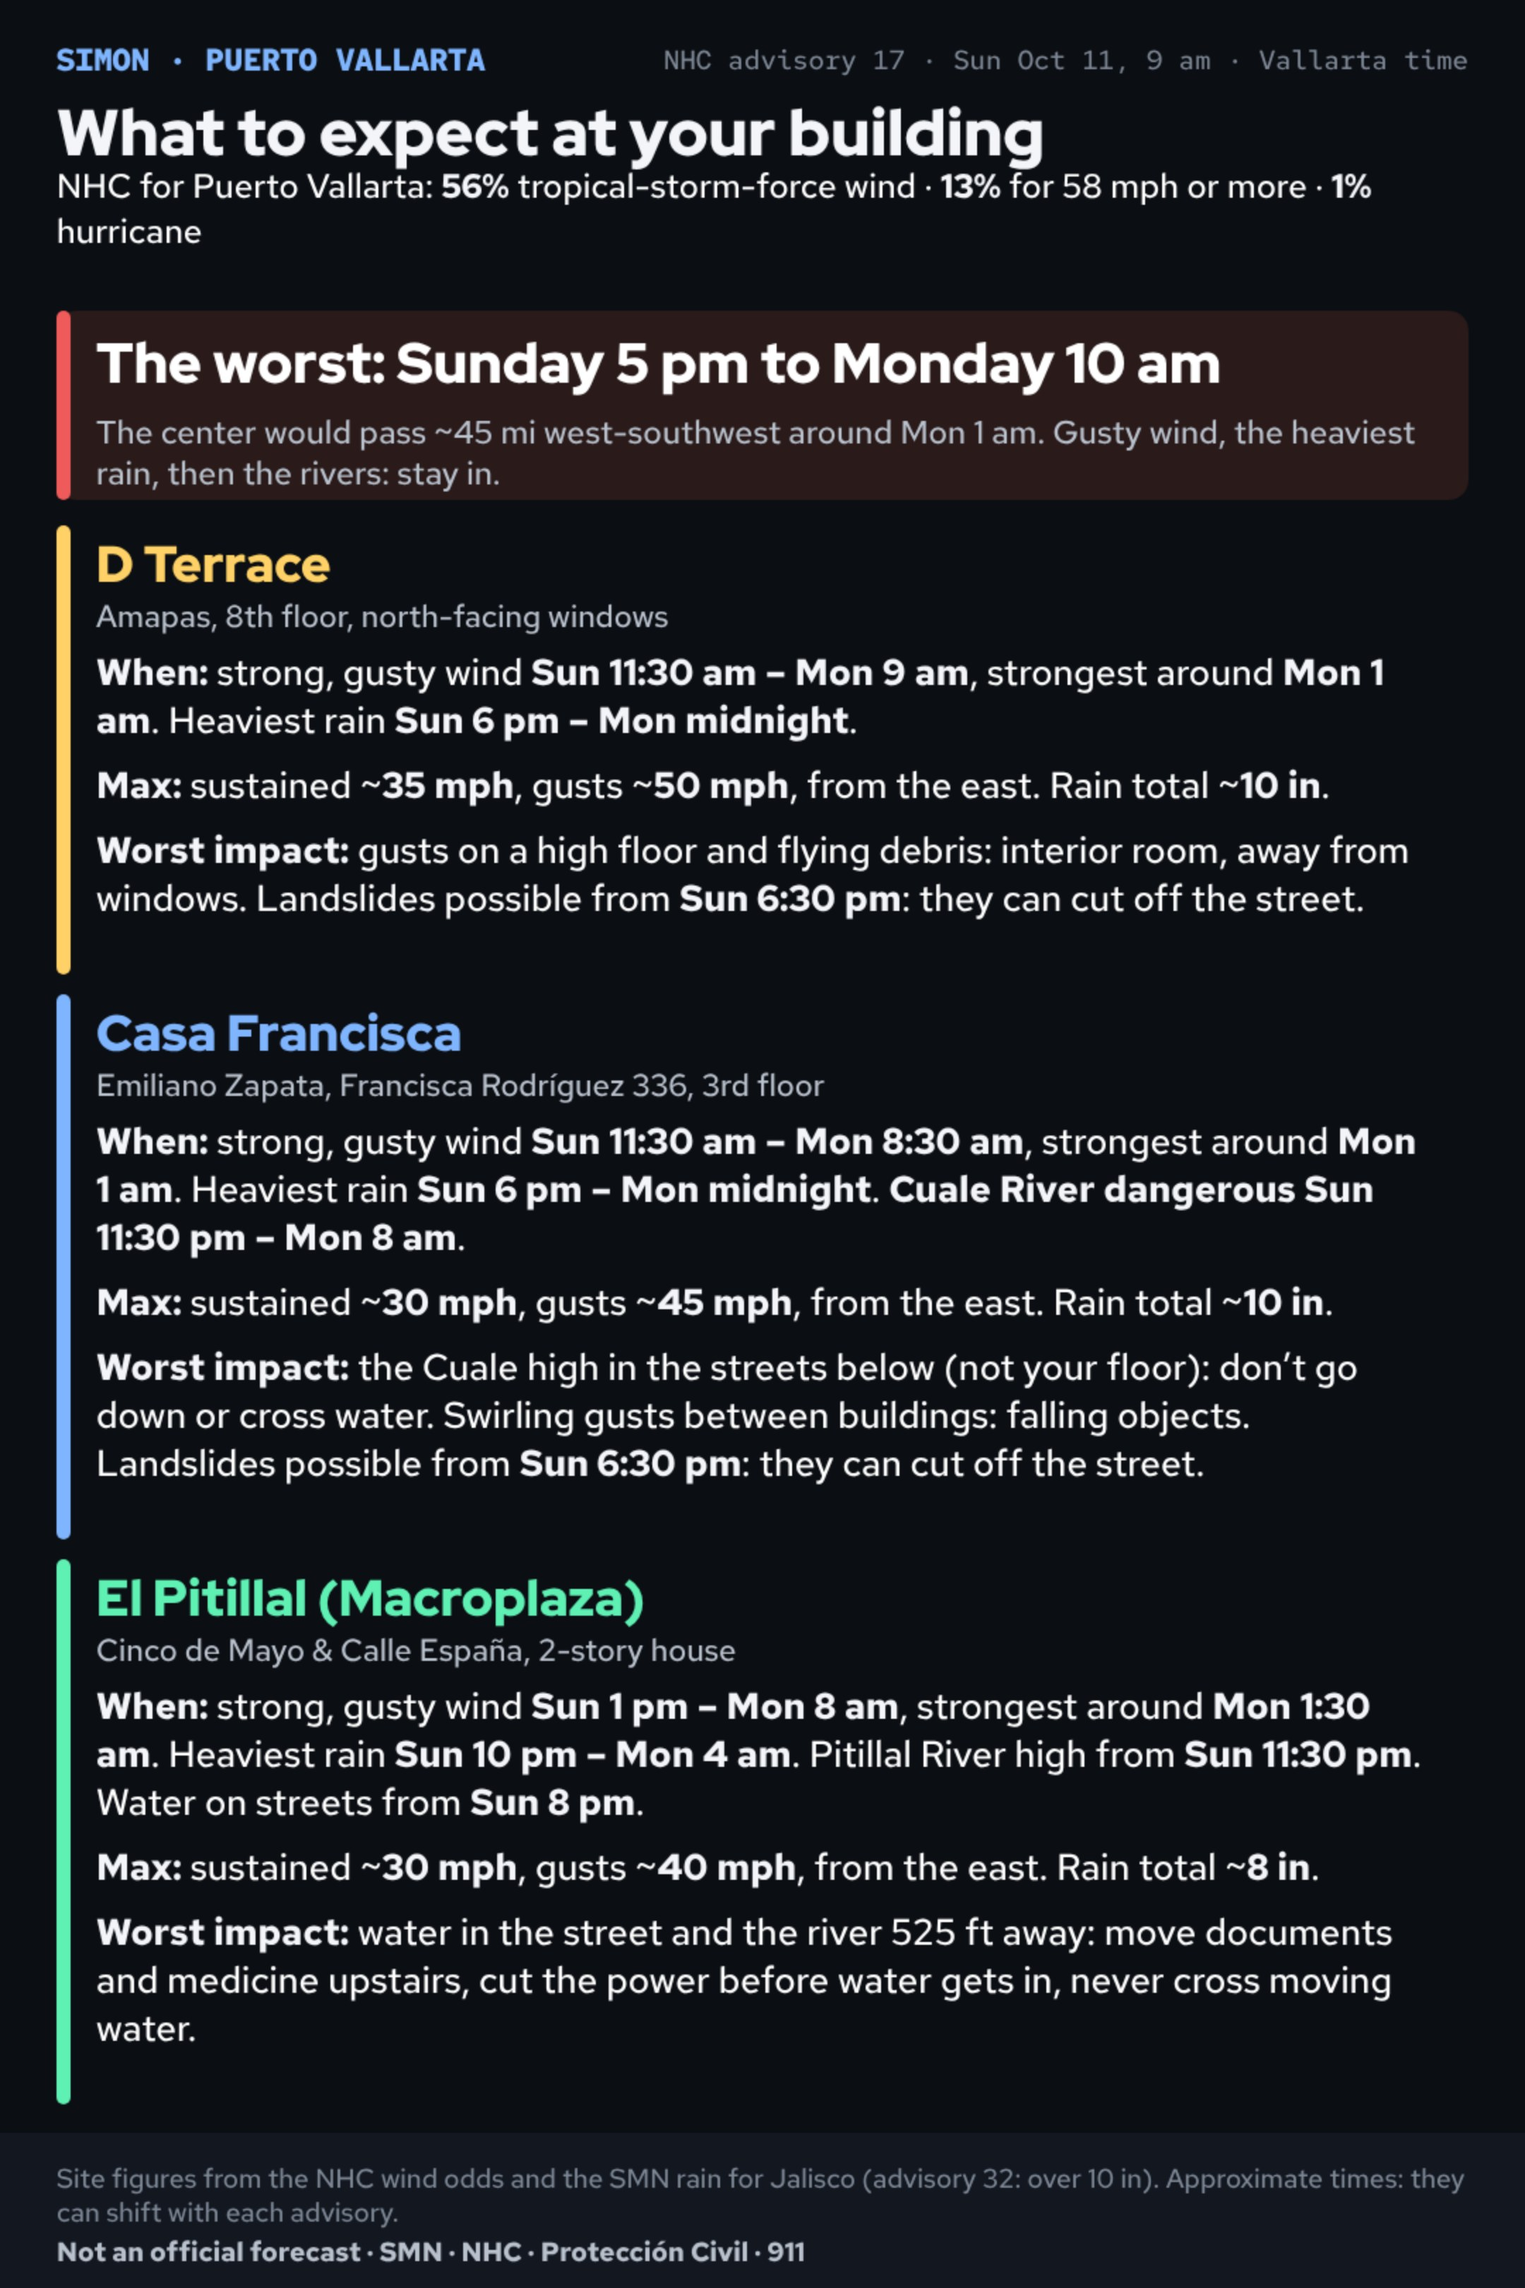
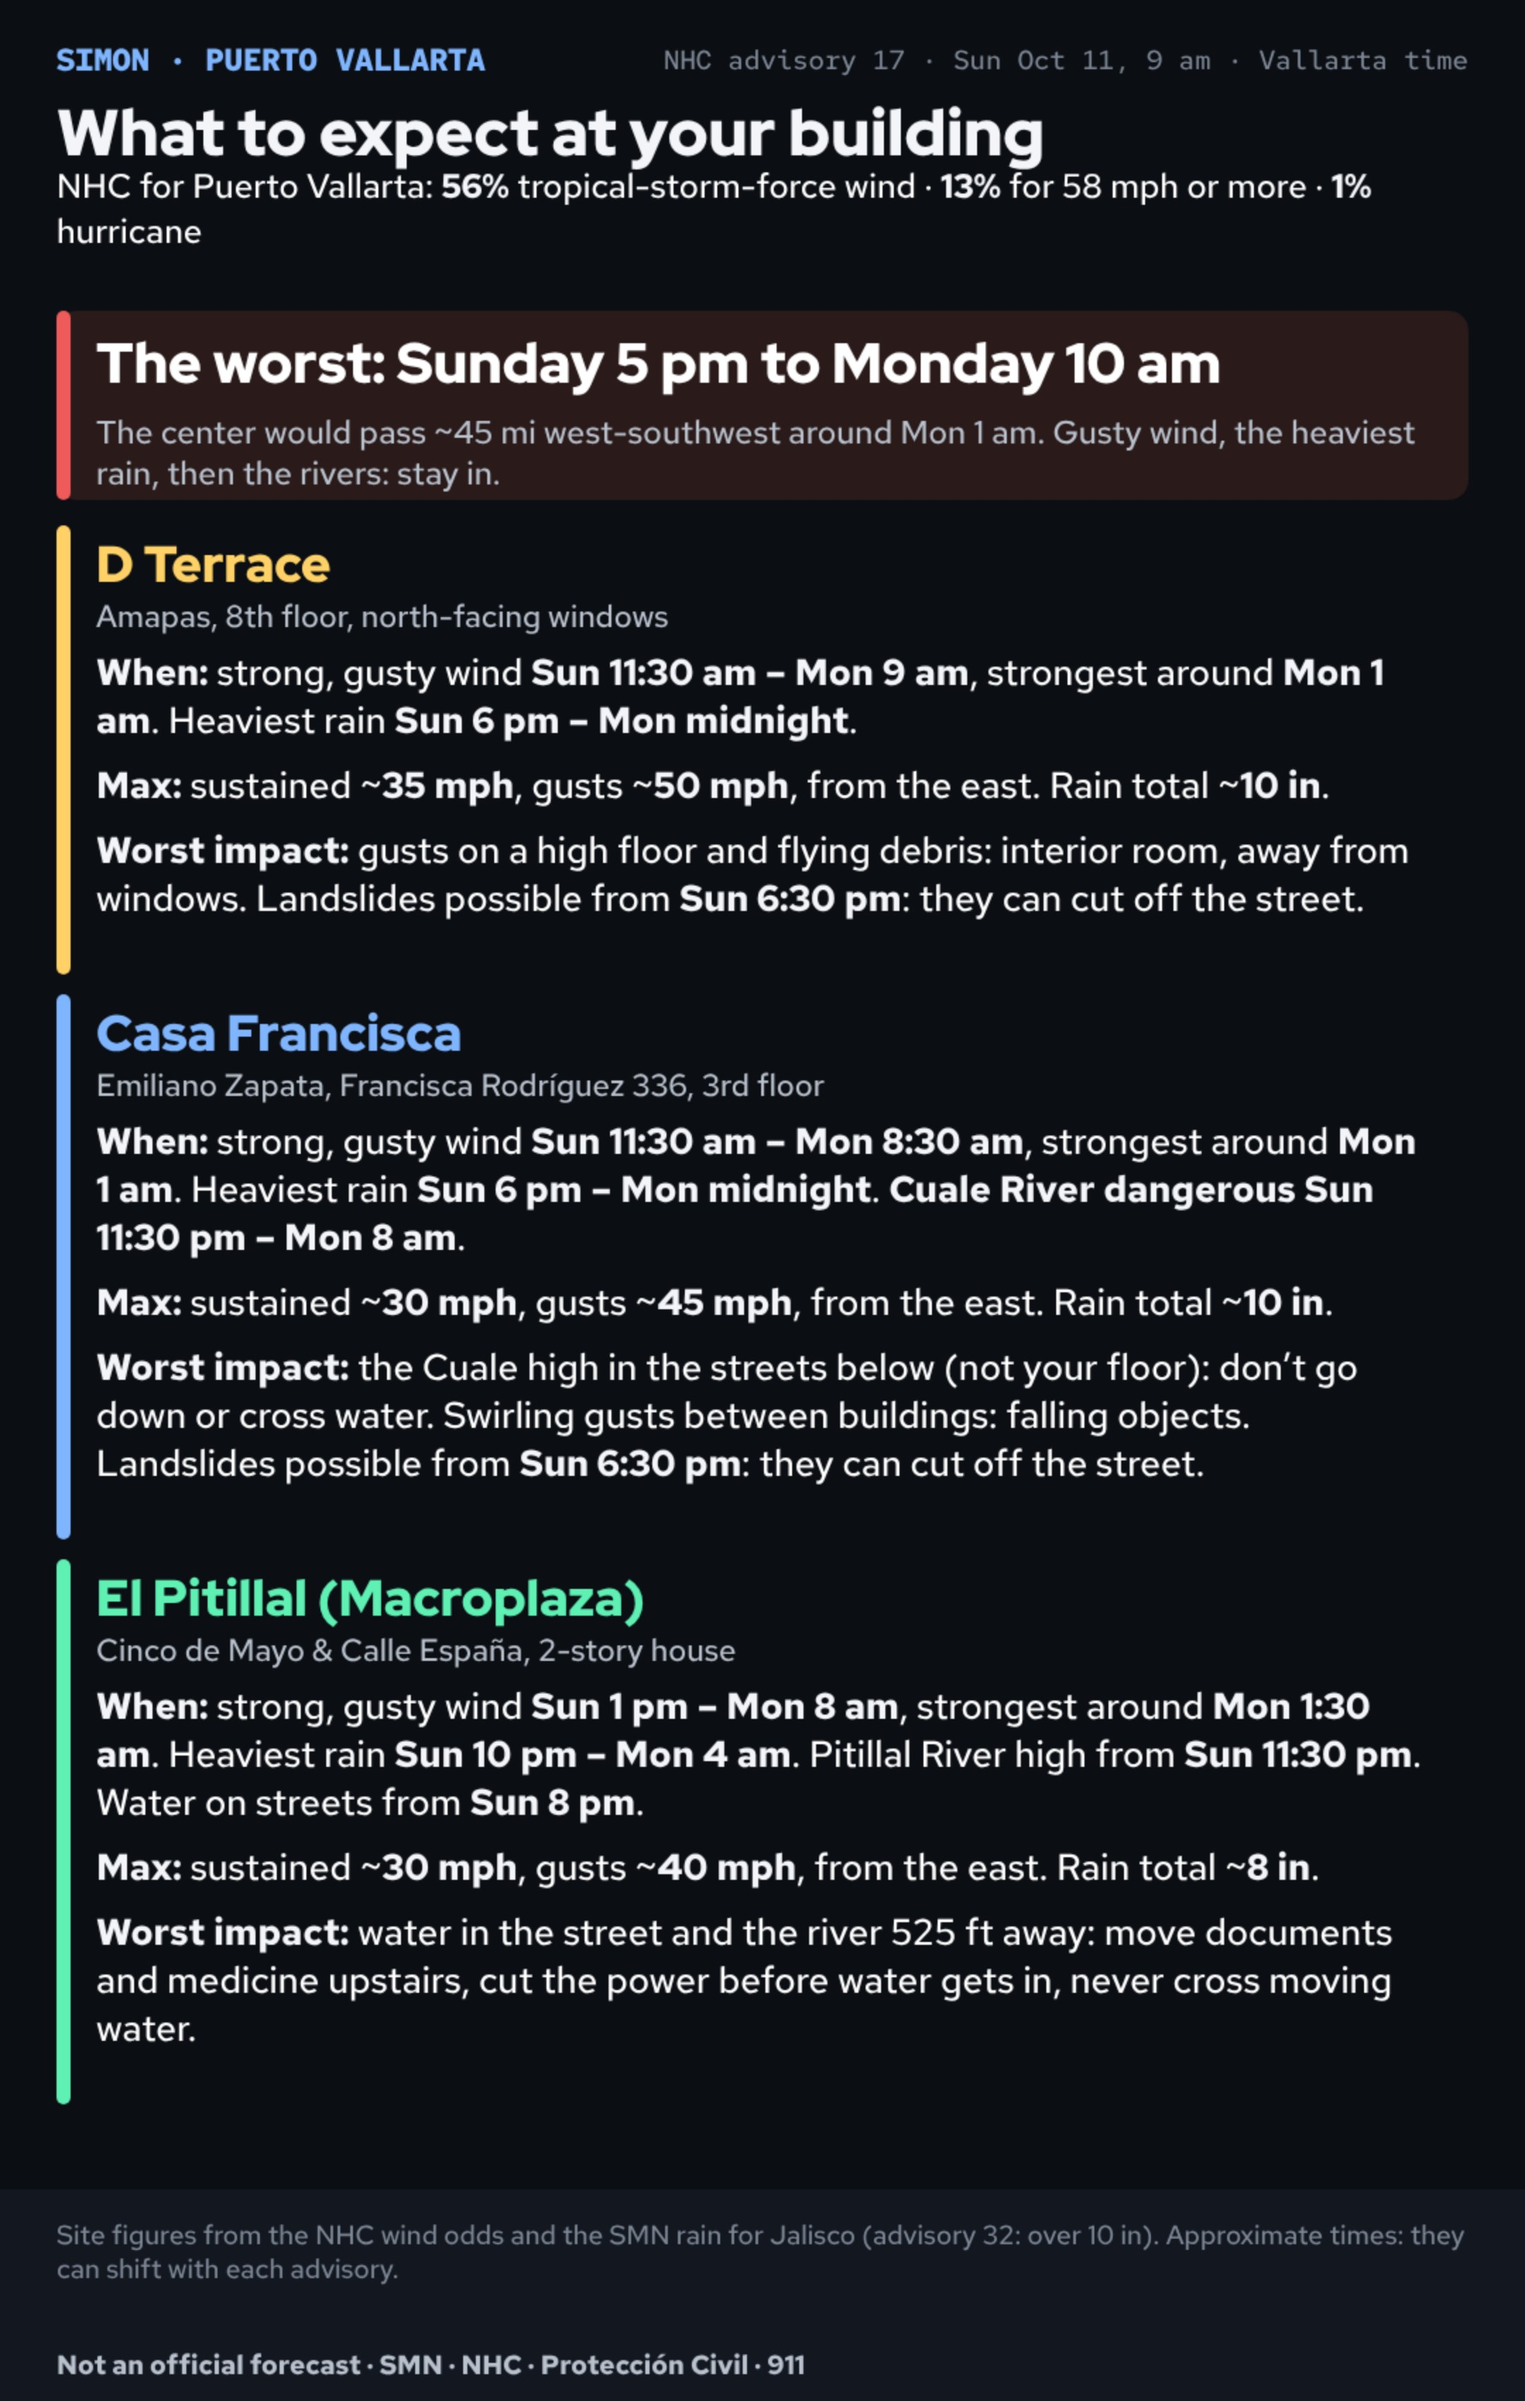
Simon summary graphics: taller canvas so the footer never overlaps
Claude-Session: https://claude.ai/code/session_01FJNjJWTDcgPgB2hpttgoDr

diff --git a/hurricane-simon/bay/src/graphics.html b/hurricane-simon/bay/src/graphics.html
@@ -254,7 +254,7 @@ var SUM_BI = false;
 function bi(x, y, w, es, en, size){ var sz = size || 21; if (!SUM_BI) return rich(LANG === 'es' ? es : en, x, y, w, sz + 5, sz + 13, '#ffffff') + 12; var h = rich(es, x, y, w, sz, sz + 7, '#ffffff'); h += rich(en, x, y + h, w, sz - 2, sz + 5, C.ink2); return h + 6; }
 function bt(es, en){ return SUM_BI ? es + ' · ' + en : L(es, en); }
 var SUM_NAMES = {amapas: ['D Terrace', ['Amapas, 8.º piso, ventanas al norte', 'Amapas, 8th floor, north-facing windows']], ezapata: ['Casa Francisca', ['Emiliano Zapata, Francisca Rodríguez 336, 3.er piso', 'Emiliano Zapata, Francisca Rodríguez 336, 3rd floor']], pitillal: ['El Pitillal (Macroplaza)', ['Cinco de Mayo y Calle España, casa de 2 pisos', 'Cinco de Mayo & Calle España, 2-story house']]};
-function gSummary(){ var HS = SUM_BI ? 1800 : 1620; cv.height = HS; cx.fillStyle = C.bg; cx.fillRect(0, 0, W, HS);
+function gSummary(){ var HS = SUM_BI ? 1800 : 1700; cv.height = HS; cx.fillStyle = C.bg; cx.fillRect(0, 0, W, HS);
   text('SIMON · PUERTO VALLARTA', 40, 44, 22, C.accent, 700, 'left', FM); text(SUM_BI ? inLang('es', advLine) + ' · ' + inLang('en', advLine).replace(/^NHC advisory \d+ · /, '') : advLine() + ' · ' + L('hora de Vallarta', 'Vallarta time'), W - 40, 44, 19, C.mute, 500, 'right', FM);
   var ttl = bt('Qué esperar en tu edificio', 'What to expect at your building'); text(ttl, 40, 98, fitText(ttl, W - 80, 46), C.ink, 800, 'left', FD);
   var am = SITES[0], ez = SITES[1], pi = SITES[2];
@@ -295,7 +295,7 @@ function gSummary(){ var HS = SUM_BI ? 1800 : 1620; cv.height = HS; cx.fillStyle
     cx.save(); cx.globalCompositeOperation = 'destination-over'; cx.fillStyle = '#151b25'; roundRect(40, top, W - 80, hgt, 14); cx.fill(); cx.restore();
     cx.fillStyle = SITE_COL[s.id]; roundRect(40, top, 10, hgt, 5); cx.fill();
     y = top + hgt + 14; });
-  var fy = Math.max(y + 6, HS - 150);
+  var fy = Math.max(y + 6, HS - 150); if (fy > HS - 124) fy = HS - 124;
   cx.fillStyle = '#121720'; cx.fillRect(0, fy, W, HS - fy);
   var fES = 'Cifras de los tres sitios con las probabilidades de viento del NHC y la lluvia del SMN para Jalisco (aviso ' + SMN_AV + ': más de 250 mm). Horas aproximadas: pueden moverse con cada boletín.', fEN = 'Site figures from the NHC wind odds and the SMN rain for Jalisco (advisory ' + SMN_AV + ': over 10 in). Approximate times: they can shift with each advisory.';
   if (SUM_BI){ wrap(fES, 40, fy + 26, W - 80, 17, 22, C.mute, 500); wrap(fEN, 40, fy + 72, W - 80, 17, 22, C.mute, 500); }
